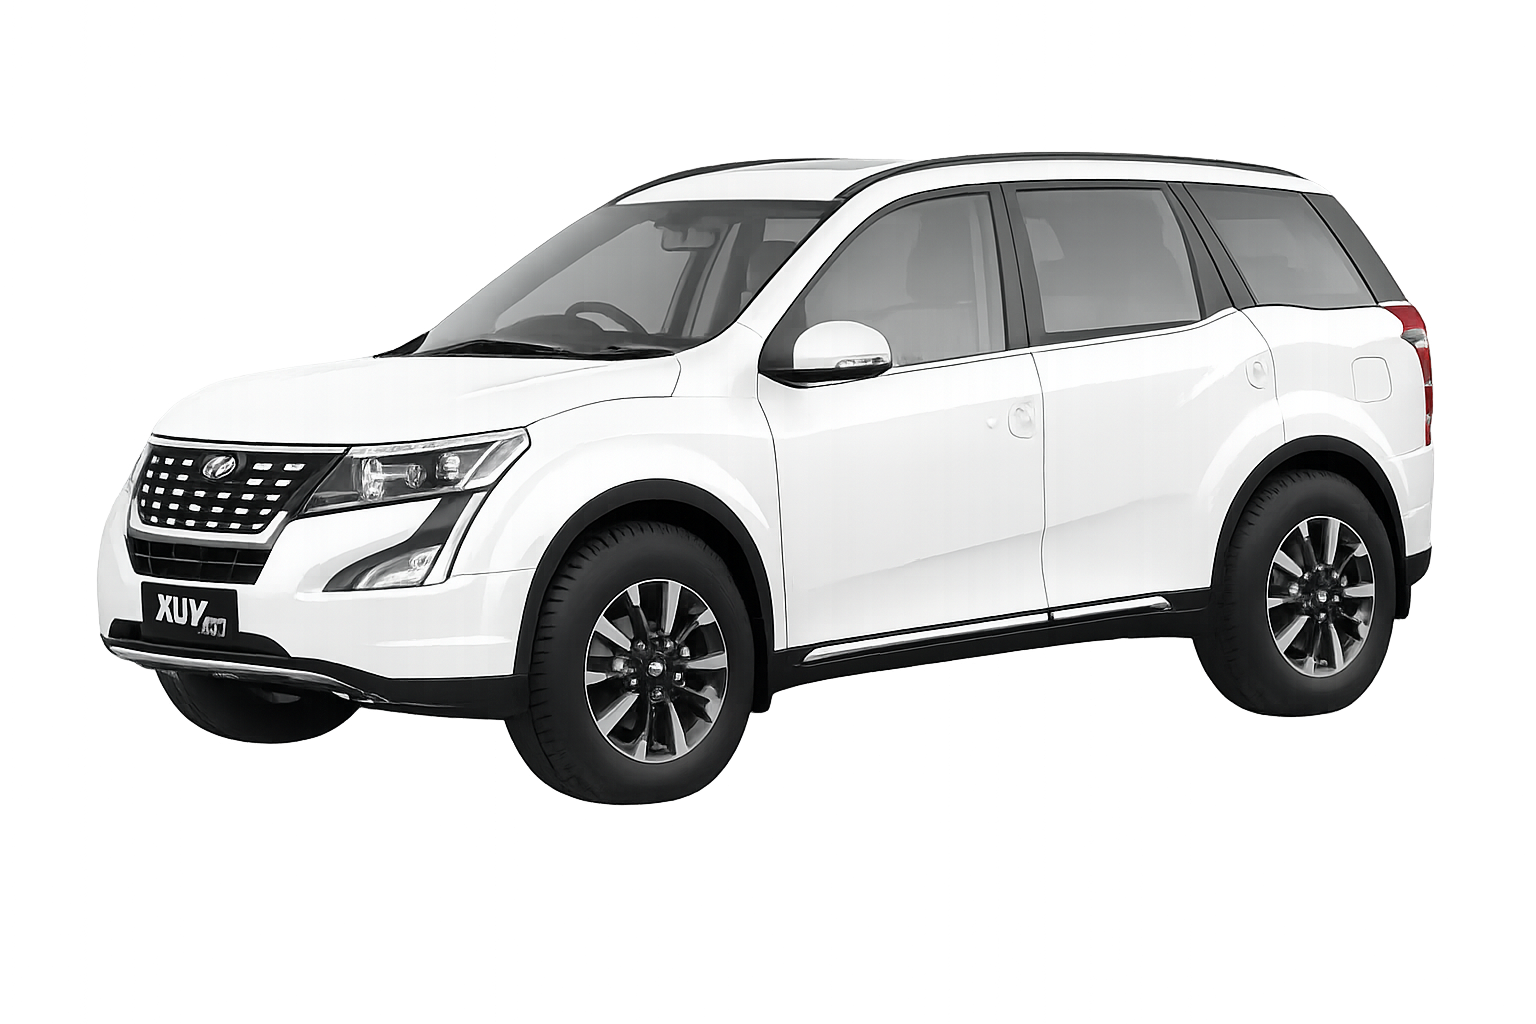
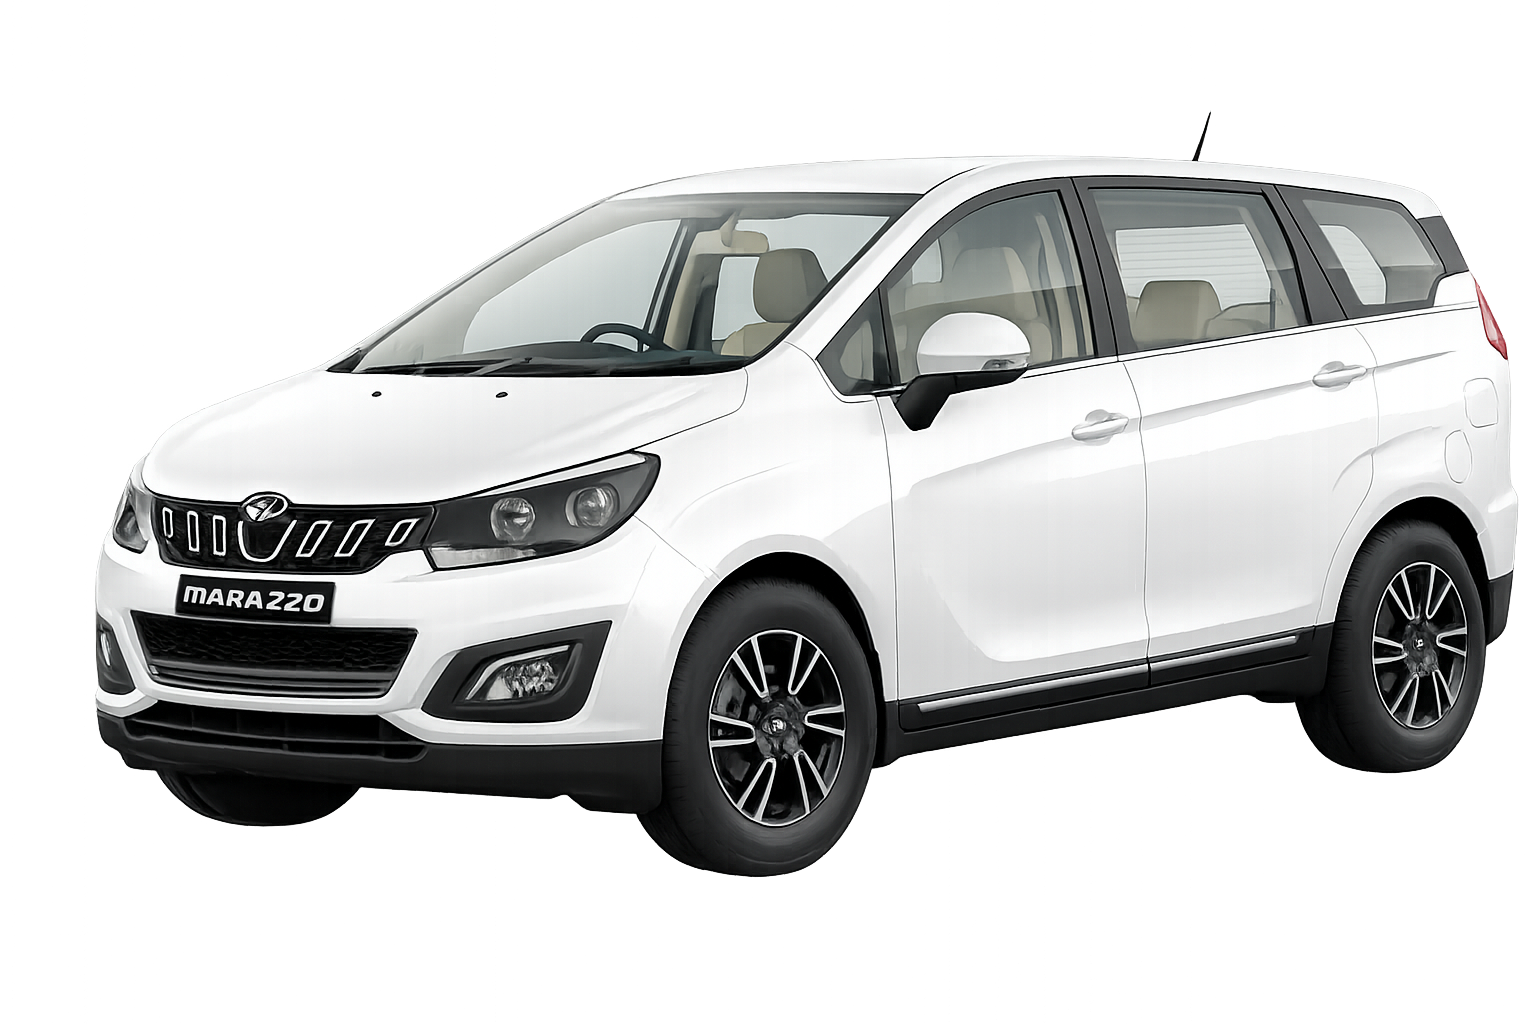
update

diff --git a/src/constants/services.js b/src/constants/services.js
@@ -3,8 +3,7 @@ export const SERVICES_DATA = {
     title: "Car Rental",
     bannerImage: "/images/headers/car rental.png",
     contentImage: "/images/services/car rental.png",
-    description:
-      "Drive Comfort, Travel Smart with Amigos Rent A Car",
+    description: "Drive Comfort, Travel Smart with Amigos Rent A Car",
     fullContent: [
       "Welcome to Amigos Rent A Car, your trusted partner for reliable, comfortable, and premium travel experiences across India. As a leading online and offline cab booking aggregator, we specialize in chauffeur-driven intercity and local car rental services designed to meet both personal and corporate travel needs.",
       "With over a decade of industry expertise, we have built a strong reputation for delivering safe, seamless, and professional transportation solutions, with an extensive network across the country. Our commitment to quality service, punctuality, and customer satisfaction makes us a preferred choice for travelers nationwide.",
@@ -28,8 +27,7 @@ export const SERVICES_DATA = {
       "/images/Employee Transportation/3.jpg",
       "/images/Employee Transportation/4.jpg",
     ],
-    description:
-      "Smart Transport Solutions for a Smarter Workforce",
+    description: "Smart Transport Solutions for a Smarter Workforce",
     fullContent: [
       "We deliver end-to-end transport solutions tailored to your business needs, with a strong focus on efficiency, reliability, and cost optimization.",
       "Our team ensures seamless operations with optimized routing and maximum vehicle utilization for smooth employee commutes.",
@@ -91,8 +89,7 @@ export const SERVICES_DATA = {
     bannerImage: "/images/headers/event management.png",
     bgPos: "top",
     contentImage: "/images/services/event managemnt.png",
-    description:
-      "Turning Moments into Memories That Last Forever",
+    description: "Turning Moments into Memories That Last Forever",
     fullContent: [
       "Your business is all about creating memories that last a lifetime.",
       "We are your one-stop destination for all event needs, from intimate gatherings to large-scale corporate celebrations.",
@@ -157,6 +154,7 @@ export const SERVICES_DATA = {
       },
     ],
     images: [
+      "/images/services/event_management/event_management.jpeg",
       "/images/services/event_management/event_management (1).jpeg",
       "/images/services/event_management/event_management (2).jpeg",
       "/images/services/event_management/event_management (3).jpeg",
@@ -164,14 +162,19 @@ export const SERVICES_DATA = {
       "/images/services/event_management/event_management (5).jpeg",
       "/images/services/event_management/event_management (6).jpeg",
       "/images/services/event_management/event_management (7).jpeg",
+      "/images/services/event_management/event_management (8).jpeg",
+      "/images/services/event_management/event_management (9).jpeg",
+      "/images/services/event_management/event_management (10).jpeg",
+      "/images/services/event_management/event_management (11).jpeg",
+      "/images/services/event_management/event_management (12).jpeg",
+      "/images/services/event_management/event_management (13).jpeg",
     ],
   },
   "inbound-and-outbound-tours": {
     title: "Inbound & Outbound Tours",
     bannerImage: "/images/headers/inbound and outbound.png",
     contentImage: "/images/services/inbound outbound tours.png",
-    description:
-      "From Local Trails to Global Destinations - We Take You There",
+    description: "From Local Trails to Global Destinations - We Take You There",
     fullContent: [
       "We offer seamless travel experiences across India and around the world, designed for adventure, comfort, and leisure.",
       "From inbound South Indian experiences like culture, pilgrimage, yoga, Ayurveda, and adventure tours to curated outbound international packages including MICE, honeymoons, and leisure vacations - we cover it all.",
@@ -184,6 +187,13 @@ export const SERVICES_DATA = {
       "Flight & Visa Services",
       "Luxury Coach Rentals",
     ],
+
+    images: [
+      "/images/services/inbound_oubound_tours/inbound_oubound_tours (1).jpeg",
+      "/images/services/inbound_oubound_tours/inbound_oubound_tours (2).jpeg",
+      "/images/services/inbound_oubound_tours/inbound_oubound_tours (3).jpeg",
+      "/images/services/inbound_oubound_tours/inbound_oubound_tours (4).jpeg",
+    ],
   },
   "wedding-planner": {
     title: "Wedding Planner",
@@ -191,7 +201,6 @@ export const SERVICES_DATA = {
     contentImage: "/images/services/wedding planers.png",
     bgPos: "top",
     images: [
-
       "/images/services/wedding_planner/wedding_planner (2).jpeg",
       "/images/services/wedding_planner/wedding_planner (3).jpeg",
       "/images/services/wedding_planner/wedding_planner (4).jpeg",
@@ -204,8 +213,7 @@ export const SERVICES_DATA = {
       "/images/services/wedding_planner/wedding_planner (11).jpeg",
       "/images/services/wedding_planner/wedding_planner (12).jpeg",
     ],
-    description:
-      "Turning Your Dream Wedding into a Beautiful Reality",
+    description: "Turning Your Dream Wedding into a Beautiful Reality",
     fullContent: [
       "From thoughtful thank-you gifts to unforgettable honeymoon experiences, we are here to make every moment of your wedding journey truly special.",
       "Our expert team handles every aspect of wedding planning with creativity, precision, and care, allowing you and your loved ones to enjoy your big day completely stress-free.",

diff --git a/src/components/screens/home/sections/industries/industries.module.scss b/src/components/screens/home/sections/industries/industries.module.scss
@@ -92,4 +92,15 @@
       text-transform: uppercase;
     }
   }
+
+  p {
+    text-align: center;
+    color: white;
+    margin-top: 50px;
+    font-size: 20px;
+
+    a {
+      color: $color_1;
+    }
+  }
 }

diff --git a/src/components/screens/home/sections/industries/industries.jsx b/src/components/screens/home/sections/industries/industries.jsx
@@ -14,6 +14,7 @@ import {
   HouseDoor,
   Buildings
 } from "react-bootstrap-icons";
+import Link from "next/link";
 
 const industriesData = [
   { name: "Technology", icon: <Cpu /> },
@@ -49,6 +50,9 @@ const IndustriesSection = () => {
             </div>
           ))}
         </div>
+        <p>To know more about our services please do reach at{" "}
+          <Link href={'mailto:[email redacted]'}>[email redacted]</Link>
+        </p>
       </CustomContainer>
     </section>
   );